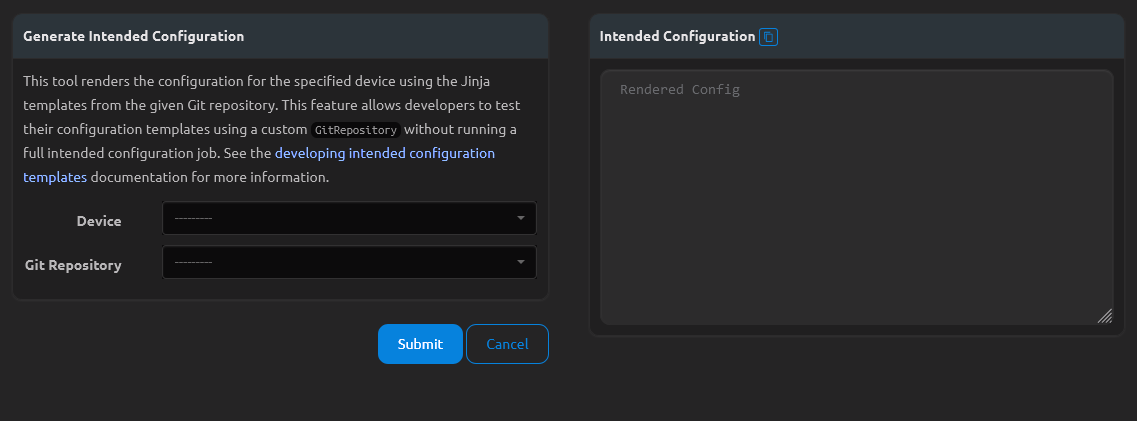
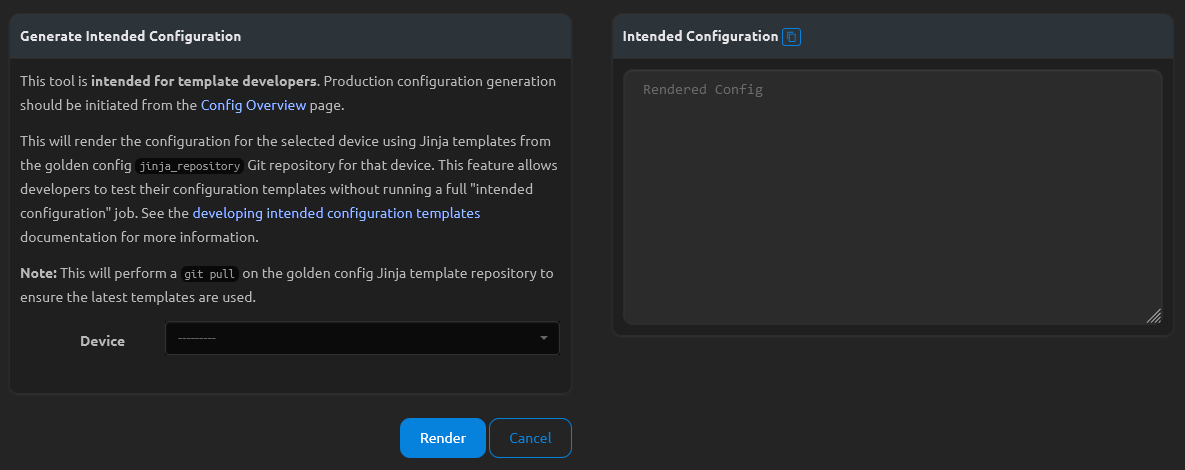
address feedback

diff --git a/nautobot_golden_config/templates/nautobot_golden_config/generate_intended_config.html b/nautobot_golden_config/templates/nautobot_golden_config/generate_intended_config.html
@@ -19,12 +19,20 @@
                 <div class="panel-heading"><strong>{% block title %}Generate Intended Configuration{% endblock title %}</strong></div>
                 <div class="panel-body">
                     <p>
-                    This tool renders the configuration for the specified device using the Jinja templates from the given Git repository.
-                    This feature allows developers to test their configuration templates using a custom <code>GitRepository</code> without running a full
-                    intended configuration job. See the
+                    This tool is <strong>intended for template developers</strong>. Production configuration generation should be initiated from the
+                    <a href="{% url 'plugins:nautobot_golden_config:goldenconfig_list' %}">Config Overview</a> page.
+                    </p>
+                    <p>
+                    This will render the configuration for the selected device using Jinja templates from the golden config <code>jinja_repository</code>
+                    Git repository for that device.
+                    This feature allows developers to test their configuration templates without running a full "intended configuration" job. See the
                     <a href="{% static 'nautobot_golden_config/docs/user/app_feature_intended.html' %}#developing-intended-configuration-templates">
                     developing intended configuration templates
                     </a> documentation for more information.
+                    </p>
+                    <p>
+                    <strong>Note:</strong>
+                    This will perform a <code>git pull</code> on the golden config Jinja template repository to ensure the latest templates are used.
                     </p>
                     {% render_field form.device %}
                     {% render_field form.git_repository %}
@@ -66,12 +74,8 @@
                 const rendered_config = document.getElementById("rendered_config");
                 rendered_config.innerHTML = "Loading...";
                 const device = document.getElementById("id_device").value;
-                const git_repository = document.getElementById("id_git_repository").value;
                 const url = "{% url 'plugins-api:nautobot_golden_config-api:generate_intended_config' %}";
-                const data = {
-                    device_id: device,
-                    git_repository_id: git_repository,
-                };
+                const data = {device_id: device};
                 const query_params = new URLSearchParams(data).toString();
                 const response = await fetch(url + "?" + query_params, {
                     method: "GET",
@@ -80,12 +84,12 @@
                 const responseData = await response.json();
                 if (!response.ok) {
                     const msg = responseData.detail ? responseData.detail : response.statusText;
-                    rendered_config.innerHTML = sanitize(`An error occurred: ${msg}`);
+                    rendered_config.innerHTML = sanitize(`An error occurred:\n\n${msg}`);
                 } else {
                     rendered_config.innerHTML = sanitize(responseData.intended_config);
                 }
             } catch (error) {
-                rendered_config.innerHTML = sanitize(`An error occurred: ${error.message}`);
+                rendered_config.innerHTML = sanitize(`An error occurred:\n\n${error.message}`);
             }
         }
     </script>

diff --git a/nautobot_golden_config/tests/test_api.py b/nautobot_golden_config/tests/test_api.py
@@ -1,6 +1,5 @@
 """Unit tests for nautobot_golden_config."""
 
-import uuid
 from copy import deepcopy
 from unittest.mock import patch
 
@@ -431,14 +430,14 @@ class GenerateIntendedConfigViewAPITestCase(APITestCase):
         platform.network_driver = "arista_eos"
         platform.save()
 
+        cls.git_repository = GitRepository.objects.get(name="test-jinja-repo-1")
         cls.golden_config_setting = GoldenConfigSetting.objects.create(
             name="GoldenConfigSetting test api generate intended config",
             slug="goldenconfigsetting-test-api-generate-intended-config",
             sot_agg_query=GraphQLQuery.objects.get(name="GC-SoTAgg-Query-2"),
             dynamic_group=cls.dynamic_group,
+            jinja_repository=cls.git_repository,
         )
-
-        cls.git_repository = GitRepository.objects.get(name="test-jinja-repo-1")
 
     def _setup_mock_path(self, MockPath):  # pylint: disable=invalid-name
         mock_path_instance = MockPath.return_value
@@ -474,7 +473,7 @@ class GenerateIntendedConfigViewAPITestCase(APITestCase):
 
         response = self.client.get(
             reverse("plugins-api:nautobot_golden_config-api:generate_intended_config"),
-            data={"device_id": self.device.pk, "git_repository_id": self.git_repository.pk},
+            data={"device_id": self.device.pk},
             **self.header,
         )
 
@@ -499,7 +498,7 @@ class GenerateIntendedConfigViewAPITestCase(APITestCase):
         # test missing query parameters
         response = self.client.get(
             reverse("plugins-api:nautobot_golden_config-api:generate_intended_config"),
-            data={"git_repository_id": self.git_repository.pk},
+            data={},
             **self.header,
         )
         self.assertHttpStatus(response, status.HTTP_400_BAD_REQUEST)
@@ -509,24 +508,12 @@ class GenerateIntendedConfigViewAPITestCase(APITestCase):
             "Parameter device_id is required",
         )
 
-        response = self.client.get(
-            reverse("plugins-api:nautobot_golden_config-api:generate_intended_config"),
-            data={"device_id": self.device.pk},
-            **self.header,
-        )
-        self.assertHttpStatus(response, status.HTTP_400_BAD_REQUEST)
-        self.assertTrue("detail" in response.data)
-        self.assertEqual(
-            response.data["detail"],
-            "Parameter git_repository_id is required",
-        )
-
         # test git repo not present on filesystem
         mock_path_instance.is_file.return_value = False
 
         response = self.client.get(
             reverse("plugins-api:nautobot_golden_config-api:generate_intended_config"),
-            data={"device_id": self.device.pk, "git_repository_id": self.git_repository.pk},
+            data={"device_id": self.device.pk},
             **self.header,
         )
 
@@ -556,20 +543,23 @@ class GenerateIntendedConfigViewAPITestCase(APITestCase):
 
         response = self.client.get(
             reverse("plugins-api:nautobot_golden_config-api:generate_intended_config"),
-            data={"device_id": self.device.pk, "git_repository_id": self.git_repository.pk},
+            data={"device_id": self.device.pk},
             **self.header,
         )
 
         self.assertHttpStatus(response, status.HTTP_400_BAD_REQUEST)
         self.assertTrue("detail" in response.data)
-        self.assertEqual("Error rendering Jinja template", response.data["detail"])
+        self.assertEqual(
+            response.data["detail"].strip(),
+            "Error rendering Jinja template: Subtask: GENERATE CONFIG (failed)",
+        )
 
         # test ensure_git_repository failure
         mock_ensure_git_repository.side_effect = Exception("Test exception")
 
         response = self.client.get(
             reverse("plugins-api:nautobot_golden_config-api:generate_intended_config"),
-            data={"device_id": self.device.pk, "git_repository_id": self.git_repository.pk},
+            data={"device_id": self.device.pk},
             **self.header,
         )
 
@@ -577,13 +567,26 @@ class GenerateIntendedConfigViewAPITestCase(APITestCase):
         self.assertTrue("detail" in response.data)
         self.assertEqual("Error trying to sync git repository", response.data["detail"])
 
+        # test jinja_repository not set
+        self.golden_config_setting.jinja_repository = None
+        self.golden_config_setting.save()
+        response = self.client.get(
+            reverse("plugins-api:nautobot_golden_config-api:generate_intended_config"),
+            data={"device_id": self.device.pk},
+            **self.header,
+        )
+
+        self.assertHttpStatus(response, status.HTTP_400_BAD_REQUEST)
+        self.assertTrue("detail" in response.data)
+        self.assertEqual(response.data["detail"], "Golden Config settings jinja_repository not set")
+
         # test no sot_agg_query on GoldenConfigSetting
         self.golden_config_setting.sot_agg_query = None
         self.golden_config_setting.save()
 
         response = self.client.get(
             reverse("plugins-api:nautobot_golden_config-api:generate_intended_config"),
-            data={"device_id": self.device.pk, "git_repository_id": self.git_repository.pk},
+            data={"device_id": self.device.pk},
             **self.header,
         )
 
@@ -591,23 +594,11 @@ class GenerateIntendedConfigViewAPITestCase(APITestCase):
         self.assertTrue("detail" in response.data)
         self.assertEqual("Golden Config settings sot_agg_query not set", response.data["detail"])
 
-        # test git_repository instance not found
-        invalid_uuid = uuid.uuid4()
-        response = self.client.get(
-            reverse("plugins-api:nautobot_golden_config-api:generate_intended_config"),
-            data={"device_id": self.device.pk, "git_repository_id": invalid_uuid},
-            **self.header,
-        )
-
-        self.assertHttpStatus(response, status.HTTP_400_BAD_REQUEST)
-        self.assertTrue("detail" in response.data)
-        self.assertEqual(f"GitRepository with id '{invalid_uuid}' not found", response.data["detail"])
-
         # test no GoldenConfigSetting found for device
         GoldenConfigSetting.objects.all().delete()
         response = self.client.get(
             reverse("plugins-api:nautobot_golden_config-api:generate_intended_config"),
-            data={"device_id": self.device.pk, "git_repository_id": self.git_repository.pk},
+            data={"device_id": self.device.pk},
             **self.header,
         )
 

diff --git a/nautobot_golden_config/api/views.py b/nautobot_golden_config/api/views.py
@@ -20,7 +20,6 @@ from nautobot.core.api.views import (
 from nautobot.dcim.models import Device
 from nautobot.extras.api.views import NautobotModelViewSet, NotesViewSetMixin
 from nautobot.extras.datasources.git import ensure_git_repository
-from nautobot.extras.models import GitRepository
 from nautobot_plugin_nornir.constants import NORNIR_SETTINGS
 from nornir import InitNornir
 from nornir_nautobot.plugins.tasks.dispatcher import dispatcher
@@ -233,25 +232,21 @@ class GenerateIntendedConfigView(NautobotAPIVersionMixin, GenericAPIView):
                 type=OpenApiTypes.UUID,
                 location=OpenApiParameter.QUERY,
             ),
-            OpenApiParameter(
-                name="git_repository_id",
-                required=True,
-                type=OpenApiTypes.UUID,
-                location=OpenApiParameter.QUERY,
-            ),
         ]
     )
     def get(self, request, *args, **kwargs):
-        """Generate intended configuration for a Device with an arbitrary GitRepository."""
+        """Generate intended configuration for a Device."""
         device = self._get_object(request, Device, "device_id")
-        git_repository = self._get_object(request, GitRepository, "git_repository_id")
         settings = models.GoldenConfigSetting.objects.get_for_device(device)
         if not settings:
             raise GenerateIntendedConfigException("No Golden Config settings found for this device")
         if not settings.sot_agg_query:
             raise GenerateIntendedConfigException("Golden Config settings sot_agg_query not set")
+        if not settings.jinja_repository:
+            raise GenerateIntendedConfigException("Golden Config settings jinja_repository not set")
 
         try:
+            git_repository = settings.jinja_repository
             ensure_git_repository(git_repository)
         except Exception as exc:
             raise GenerateIntendedConfigException("Error trying to sync git repository") from exc
@@ -268,7 +263,7 @@ class GenerateIntendedConfigView(NautobotAPIVersionMixin, GenericAPIView):
                     graphql_data=context,
                 )
             except Exception as exc:
-                raise GenerateIntendedConfigException("Error rendering Jinja template") from exc
+                raise GenerateIntendedConfigException(f"Error rendering Jinja template: {exc}") from exc
             return Response(
                 data={
                     "intended_config": intended_config,
@@ -315,4 +310,12 @@ class GenerateIntendedConfigView(NautobotAPIVersionMixin, GenericAPIView):
                     "generate_config", device.platform.network_driver, logging.getLogger(dispatch_params.__module__)
                 ),
             )
-            return results[device.name][1][1][0].result["config"]
+            if results[device.name].failed:
+                if results[device.name].exception:
+                    raise results[device.name].exception
+                else:
+                    raise GenerateIntendedConfigException(
+                        f"Error generating intended config for {device.name}: {results[device.name].result}"
+                    )
+            else:
+                return results[device.name][1][1][0].result["config"]

diff --git a/nautobot_golden_config/api/serializers.py b/nautobot_golden_config/api/serializers.py
@@ -129,5 +129,5 @@ class ConfigPlanSerializer(NautobotModelSerializer, TaggedModelSerializerMixin):
 class GenerateIntendedConfigSerializer(serializers.Serializer):  # pylint: disable=abstract-method
     """Serializer for GenerateIntendedConfigView."""
 
-    intended_config = serializers.CharField()
-    intended_config_lines = serializers.ListField(child=serializers.CharField())
+    intended_config = serializers.CharField(read_only=True)
+    intended_config_lines = serializers.ListField(read_only=True, child=serializers.CharField())

diff --git a/nautobot_golden_config/forms.py b/nautobot_golden_config/forms.py
@@ -608,8 +608,3 @@ class GenerateIntendedConfigForm(django_forms.Form):
         required=True,
         label="Device",
     )
-    git_repository = forms.DynamicModelChoiceField(
-        queryset=GitRepository.objects.all(),
-        required=True,
-        label="Git Repository",
-    )

diff --git a/docs/user/app_feature_intended.md b/docs/user/app_feature_intended.md
@@ -35,29 +35,22 @@ In these examples, `/services.j2`, `/ntp.j2`, etc. could contain the actual Jinj
 
 ### Developing Intended Configuration Templates
 
-To help developers create the Jinja2 templates for generating the intended configuration, the app provides a REST API at `/api/plugins/golden-config/generate-intended-config/` and a simple web UI at `/plugins/golden-config/generate-intended-config/`. The REST API accepts two query parameters: `device_id` and `git_repository_id`. It returns the rendered configuration for the specified device using the templates from the given Git repository. This feature allows developers to test their configuration templates using a custom `GitRepository` without running a full intended configuration job.
+To help developers create the Jinja2 templates for generating a device's intended configuration, the app provides a REST API at `/api/plugins/golden-config/generate-intended-config/` and a simple web UI at `/plugins/golden-config/generate-intended-config/`. The REST API accepts a query parameter for `device_id` and returns the rendered configuration for the specified device using the templates from the device's golden config `jinja_repository` Git repository. This feature allows developers to test their configuration templates without running a full "intended configuration" job.
 
 Here's an example of how to request the rendered configuration for a device using the REST API:
 
 ```no-highlight
-GET /api/plugins/golden-config/generate-intended-config/?device_id=231b8765-054d-4abe-bdbf-cd60e049cd8d&git_repository_id=82c051e0-d0a9-4008-948a-936a409c654a
+curl -s -X GET \
+    -H "Accept: application/json" \
+    http://nautobot/api/plugins/golden-config/generate-intended-config/?device_id=231b8765-054d-4abe-bdbf-cd60e049cd8d
 ```
 
-The returned response will contain the rendered configuration for the specified device. The web UI provides a simple form to input the device and Git repository and displays the rendered configuration when submitted.
+The returned response will contain the rendered configuration for the specified device. The web UI provides a simple form to input the device and displays the rendered configuration when submitted.
 
 ![Intended Configuration Web UI](../images/generate-intended-config-ui.png#only-light)
 ![Intended Configuration Web UI](../images/generate-intended-config-ui-dark.png#only-dark)
 
-This is the intended workflow for Jinja Template developers:
-
-- Create a new branch in the intended configuration repository.
-- Modify the Jinja2 templates in that new branch.
-- Add a new `GitRepository` in Nautobot that points to the new branch and sync the repository.
-  - NOTE: Do not select the "jinja templates" option under the "Provides" field when creating the `GitRepository`. Nautobot does not allow multiple `GitRepository` instances with an identical URL and "Provided Content". This API ignores the "Provided Content" field for this reason.
-  - Don't forget to associate credentials required to access the repository using the "Secrets Group" field.
-- Use the API to render the configuration for a device, using the new `GitRepository`.
-
-Calling this API endpoint automatically performs a `git pull`, retrieving the latest commit from the branch before rendering the template.
+Calling this API endpoint automatically performs a `git pull`, retrieving the latest commit from the Jinja2 templates Git repository before rendering the template.
 
 Note that this API is only intended to render Jinja2 templates and does not apply any [configuration post-processing](./app_feature_config_postprocessing.md).
 
